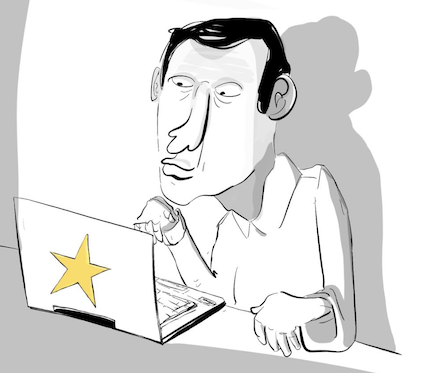
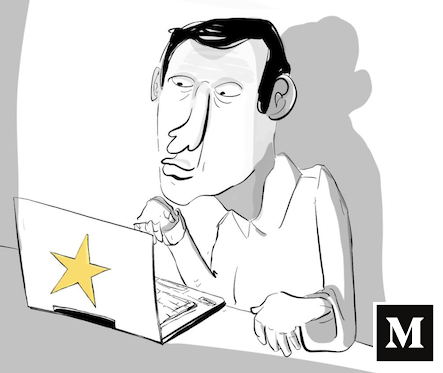
adding medium image to medium linked articles
Updated more links to open in new window not viewing one

Changed region(s): [[0.8217, 0.7962, 0.9977, 0.9732]]

diff --git a/index.html b/index.html
@@ -44,7 +44,7 @@
                  <img src="medium/git-commit-comments-and-what-they-reveal-about-you.png" alt="git commits" 
                    style='padding:1px; border:1px solid #021a40; width: 100%; height: 200px'>
                 <div class="card-body">
-                  <p class="card-text">On Medium: Your Git Commit Comments, and What They Reveal About You</p>
+                  <p class="card-text">Your Git Commit Comments, and What They Reveal About You</p>
 
                 </div>
               </a>
@@ -303,135 +303,137 @@
          <h5>All Posts:</h5>
             <ol class="list-unstyled">
 
-        <li><p><a href='concepts-in-pair-trading/index.html'>Exploring Some Pair-Trading Concepts with Python</a> <i>Published Jul 19, 2018</i></p></li> 
+        <li><p><a href='https://medium.com/@amunategui/git-commit-comments-and-what-they-reveal-about-you-64f7609b3750' target='_blank'>Your Git Commit Comments, and What They Reveal About You</a> <i>Published Jul 21, 2018</i></p></li> 
 
-        <li><p><a href='favorite-free-classes/index.html'>My Six Favorite Free Data Science Classes and the Giants Behind Them</a> <i>Published Jul 8, 2018</i></p></li> 
+        <li><p><a href='concepts-in-pair-trading/index.html' target='_blank'>Exploring Some Pair-Trading Concepts with Python</a> <i>Published Jul 19, 2018</i></p></li> 
 
-            <li><p><a href='aws-beanstalk/index.html'>Hosting a Flask Application on AWS Beanstalk</a> <i>Published Jun 26, 2018</i></p></li> 
+        <li><p><a href='favorite-free-classes/index.html' target='_blank'>My Six Favorite Free Data Science Classes and the Giants Behind Them</a> <i>Published Jul 8, 2018</i></p></li> 
 
-            <li><p><a href='tensorflow-won/index.html'>TensorFlow Won the Attention Battle, Who’s Next?</a> <i>Published Jun 23, 2018</i></p></li> 
+            <li><p><a href='aws-beanstalk/index.html' target='_blank'>Hosting a Flask Application on AWS Beanstalk</a> <i>Published Jun 26, 2018</i></p></li> 
 
-             <li><p><a href='fast-gpu-gcloud/index.html'>GPUs on Google Cloud - the Fast Way & the Slow Way</a> <i>Published Jun 16, 2018</i></p></li> 
+            <li><p><a href='tensorflow-won/index.html' target='_blank'>TensorFlow Won the Attention Battle, Who’s Next?</a> <i>Published Jun 23, 2018</i></p></li> 
 
-             <li><p><a href='executive-time-management/index.html'>Executive Time Management — Don’t Suffocate the Creative Process</a> <i>Published Jun 13, 2018</i></p></li>  
+             <li><p><a href='fast-gpu-gcloud/index.html' target='_blank'>GPUs on Google Cloud - the Fast Way & the Slow Way</a> <i>Published Jun 16, 2018</i></p></li> 
 
-             <li><p><a href='pairing-rl-and-ml/index.html'>Pairing Reinforcement Learning and Machine Learning, an Enhanced Emergency Response Scenario</a> <i>Published Jun 4, 2018</i></p></li>  
+             <li><p><a href='executive-time-management/index.html' target='_blank'>Executive Time Management — Don’t Suffocate the Creative Process</a> <i>Published Jun 13, 2018</i></p></li>  
 
-            <li><p><a href='find-your-next-language/index.html'>Find Your Next Programming Language By Measuring “The Knowledge Gap” on StackOverflow.com</a> <i>Published May 24, 2018</i></p></li>  
+             <li><p><a href='pairing-rl-and-ml/index.html' target='_blank'>Pairing Reinforcement Learning and Machine Learning, an Enhanced Emergency Response Scenario</a> <i>Published Jun 4, 2018</i></p></li>  
 
-            <li><p><a href='number-one-piece-of-advice/index.html'>My #1 Piece of Advice for Aspiring Data Scientists</a> <i>Published May 21, 2018</i></p></li>  
+            <li><p><a href='find-your-next-language/index.html' target='_blank'>Find Your Next Programming Language By Measuring “The Knowledge Gap” on StackOverflow.com</a> <i>Published May 24, 2018</i></p></li>  
 
-            <li><p><a href='Extracting-Chatbot-Scenarios-From-Customer-Service-Scripts/index.html'>Chatbot Conversations From Customer Service Transcripts</a> <i>Published Apr 29, 2018</i></p></li>
+            <li><p><a href='number-one-piece-of-advice/index.html' target='_blank'>My #1 Piece of Advice for Aspiring Data Scientists</a> <i>Published May 21, 2018</i></p></li>  
 
-            <li><p><a href='simple-flask-on-azure/index.html'>Serverless Hosting On Microsoft Azure - A Simple Flask Example</a> <i>Published Apr 8, 2018</i></p></li>
+            <li><p><a href='Extracting-Chatbot-Scenarios-From-Customer-Service-Scripts/index.html' target='_blank'>Chatbot Conversations From Customer Service Transcripts</a> <i>Published Apr 29, 2018</i></p></li>
 
-            <li><p><a href='google-video-transfer-learning/index.html'>Google Video Intelligence, TensorFlow And Inception V3 - Recognizing Not-So-Famous-People</a> <i>Published Mar 30, 2018</i></p></li>
+            <li><p><a href='simple-flask-on-azure/index.html' target='_blank'>Serverless Hosting On Microsoft Azure - A Simple Flask Example</a> <i>Published Apr 8, 2018</i></p></li>
+
+            <li><p><a href='google-video-transfer-learning/index.html' target='_blank'>Google Video Intelligence, TensorFlow And Inception V3 - Recognizing Not-So-Famous-People</a> <i>Published Mar 30, 2018</i></p></li>
    
-            <li><p><a href='rapid-prototyping-app-engine-yelp/index.html'>Rapid Prototyping on Google App Engine - Build a Trip Planner with Google Maps and Yelp</a> <i>Published Jan 20, 2018</i></p></li>
+            <li><p><a href='rapid-prototyping-app-engine-yelp/index.html' target='_blank'>Rapid Prototyping on Google App Engine - Build a Trip Planner with Google Maps and Yelp</a> <i>Published Jan 20, 2018</i></p></li>
             
-            <li><p><a href='yelp-v3-cross-country-trip/index.html'>Yelp v3 and a Romantic Trip Across the USA, One Florist at a Time</a> <i>Published Jan 6, 2018</i></p></li>
+            <li><p><a href='yelp-v3-cross-country-trip/index.html' target='_blank'>Yelp v3 and a Romantic Trip Across the USA, One Florist at a Time</a> <i>Published Jan 6, 2018</i></p></li>
             
-            <li><p><a href='free-website-on-github/index.html'>Show it to the World! Build a Free Art Portfolio Website on GitHub.io in 20 Minutes!</a> <i>Published Jan 1, 2018</i></p></li>
+            <li><p><a href='free-website-on-github/index.html' target='_blank'>Show it to the World! Build a Free Art Portfolio Website on GitHub.io in 20 Minutes!</a> <i>Published Jan 1, 2018</i></p></li>
 
-            <li><p><a href='google-actor-recognition/index.html'>Google Video Intelligence and Vision APIs - Automatically Recognize Actors and Download their Biographies in Real Time</a> <i>Published Dec 16, 2017</i></p></li>
+            <li><p><a href='google-actor-recognition/index.html' target='_blank'>Google Video Intelligence and Vision APIs - Automatically Recognize Actors and Download their Biographies in Real Time</a> <i>Published Dec 16, 2017</i></p></li>
 
-            <li><p><a href='life-expectancy/index.html'>Life Coefficients - Modeling Life Expectancy and Prototyping it on the Web with Flask and PythonAnywhere</a> <i>Published Dec 2, 2017</i></p></li>
+            <li><p><a href='life-expectancy/index.html' target='_blank'>Life Coefficients - Modeling Life Expectancy and Prototyping it on the Web with Flask and PythonAnywhere</a> <i>Published Dec 2, 2017</i></p></li>
             
-            <li><p><a href='unconventional-convolutional-networks/index.html'>Convolutional Neural Networks And Unconventional Data - Predicting The Stock Market Using Images</a> <i>Published Nov 2, 2017</i></p></li>
+            <li><p><a href='unconventional-convolutional-networks/index.html' target='_blank'>Convolutional Neural Networks And Unconventional Data - Predicting The Stock Market Using Images</a> <i>Published Nov 2, 2017</i></p></li>
             
-            <li><p><a href='fallacy-venn-diagram/index.html'>The Fallacy of the Data Scientist's Venn Diagram</a> <i>Published Nov 1, 2017</i></p></li>
+            <li><p><a href='fallacy-venn-diagram/index.html' target='_blank'>The Fallacy of the Data Scientist's Venn Diagram</a> <i>Published Nov 1, 2017</i></p></li>
             
-            <li><p><a href='reinforcement-learning/index.html'>Reinforcement Learning - A Simple Python Example and a Step Closer to AI with Assisted Q-Learning</a> <i>Published Sep 30, 2017</i></p></li>
+            <li><p><a href='reinforcement-learning/index.html' target='_blank'>Reinforcement Learning - A Simple Python Example and a Step Closer to AI with Assisted Q-Learning</a> <i>Published Sep 30, 2017</i></p></li>
 
-            <li><p><a href='simple-heuristics/index.html'>Simple Heuristics - Graphviz and Decision Trees to Quickly Find Patterns in your Data</a> <i>Published Sep 13, 2017</i></p></li>
+            <li><p><a href='simple-heuristics/index.html' target='_blank'>Simple Heuristics - Graphviz and Decision Trees to Quickly Find Patterns in your Data</a> <i>Published Sep 13, 2017</i></p></li>
 
-            <li><p><a href='office-automation-part3/index.html'>Office Automation Part 3 - Classifying Enron Emails with Google's Tensorflow Deep Neural Network Classifier</a> <i>Published Jul 2, 2017</i></p></li>
+            <li><p><a href='office-automation-part3/index.html' target='_blank'>Office Automation Part 3 - Classifying Enron Emails with Google's Tensorflow Deep Neural Network Classifier</a> <i>Published Jul 2, 2017</i></p></li>
 
-            <li><p><a href='office-automation-part2/index.html'>Office Automation Part 2 - Using Pre-Trained Word-Embedded Vectors to Categorize the Enron Email Dataset</a> <i>Published Jun 18, 2017</i></p></li>
+            <li><p><a href='office-automation-part2/index.html' target='_blank'>Office Automation Part 2 - Using Pre-Trained Word-Embedded Vectors to Categorize the Enron Email Dataset</a> <i>Published Jun 18, 2017</i></p></li>
 
-            <li><p><a href='office-automation/index.html'>Office Automation Part 1 - Sorting Departmental Emails with Tensorflow and Word-Embedded Vectors</a> <i>Published Jun 14, 2017</i></p></li>
+            <li><p><a href='office-automation/index.html' target='_blank'>Office Automation Part 1 - Sorting Departmental Emails with Tensorflow and Word-Embedded Vectors</a> <i>Published Jun 14, 2017</i></p></li>
             
-            <li><p><a href='market-profile/index.html'>Easy Market Profile in Python: Grasp Price Action Quickly</a> <i>Published Apr 21, 2017</i></p></li>
+            <li><p><a href='market-profile/index.html' target='_blank'>Easy Market Profile in Python: Grasp Price Action Quickly</a> <i>Published Apr 21, 2017</i></p></li>
 
-            <li><p><a href='what-if/index.html'>What-if Roadmap - Assessing Live Opportunities and their Paths to Success or Failure</a> <i>Published Mar 5, 2017</i></p></li>
+            <li><p><a href='what-if/index.html' target='_blank'>What-if Roadmap - Assessing Live Opportunities and their Paths to Success or Failure</a> <i>Published Mar 5, 2017</i></p></li>
 
-            <li><p><a href='C50-rules/index.html'>Where Are Your Customers Coming From And Where Are They Going - Reporting On Complex Customer Behavior In Plain English With C5.0</a> <i>Published Dec 26, 2016</i></p></li>
+            <li><p><a href='C50-rules/index.html' target='_blank'>Where Are Your Customers Coming From And Where Are They Going - Reporting On Complex Customer Behavior In Plain English With C5.0</a> <i>Published Dec 26, 2016</i></p></li>
 
-            <li><p><a href='databricks-spark-bayes/index.html'>Databricks, SparkR and Distributed Naive Bayes Modeling</a> <i>Published Nov 26, 2016</i></p></li>
+            <li><p><a href='databricks-spark-bayes/index.html' target='_blank'>Databricks, SparkR and Distributed Naive Bayes Modeling</a> <i>Published Nov 26, 2016</i></p></li>
 
-            <li><p><a href='r-and-azureml/index.html'>R and Azure ML - Your One-Stop Modeling Pipeline in The Cloud!</a> <i>Published Nov 20, 2016</i></p></li>
+            <li><p><a href='r-and-azureml/index.html' target='_blank'>R and Azure ML - Your One-Stop Modeling Pipeline in The Cloud!</a> <i>Published Nov 20, 2016</i></p></li>
 
-            <li><p><a href='pseudo-coefficients/index.html'>Get Your "all-else-held-equal" Odds-Ratio Story for Non-Linear Models!</a> <i>Published Nov 15, 2016</i></p></li>
+            <li><p><a href='pseudo-coefficients/index.html' target='_blank'>Get Your "all-else-held-equal" Odds-Ratio Story for Non-Linear Models!</a> <i>Published Nov 15, 2016</i></p></li>
             
-            <li><p><a href='markov-chains/index.html'>Predict Stock-Market Behavior using Markov Chains and R</a> <i>Published Aug 31, 2016</i></p></li>
+            <li><p><a href='markov-chains/index.html' target='_blank'>Predict Stock-Market Behavior using Markov Chains and R</a> <i>Published Aug 31, 2016</i></p></li>
             
             <li><p><a href="all-hacker-news/index.html">Big Data Surveillance: Use EC2, PostgreSQL and Python to Download all Hacker News Data!</a> <i>Published Jul 20, 2016</i></p></li>
             
-            <li><p><a href='peter_norvig_magic_spell_checker/index.html'>The Peter Norvig Magic Spell Checker in R</a> <i>Published Jun 16, 2016</i></p></li>
+            <li><p><a href='peter_norvig_magic_spell_checker/index.html' target='_blank'>The Peter Norvig Magic Spell Checker in R</a> <i>Published Jun 16, 2016</i></p></li>
             
-            <li><p><a href='actionable-instights/index.html'>Actionable Insights: Getting Variable Importance at the Prediction Level in R</a> <i>Published May 2, 2016</i></p></li>
+            <li><p><a href='actionable-instights/index.html' target='_blank'>Actionable Insights: Getting Variable Importance at the Prediction Level in R</a> <i>Published May 2, 2016</i></p></li>
  
-           <li><p><a href='survival-ensembles/index.html'>Survival Ensembles: Survival Plus Classification for Improved Time-Based Predictions in R</a> <i>Published March 19, 2016</i></p></li>
+           <li><p><a href='survival-ensembles/index.html' target='_blank'>Survival Ensembles: Survival Plus Classification for Improved Time-Based Predictions in R</a> <i>Published March 19, 2016</i></p></li>
 
-           <li><p><a href='anomaly-detection-h2o/index.html'>Anomaly Detection: Increasing Classification Accuracy with H2O's Autoencoder and R</a> <i>Published Jan 11, 2016</i></p></li>
+           <li><p><a href='anomaly-detection-h2o/index.html' target='_blank'>Anomaly Detection: Increasing Classification Accuracy with H2O's Autoencoder and R</a> <i>Published Jan 11, 2016</i></p></li>
 
-           <li><p><a href='h2o-on-aws/index.html'>H2O & RStudio Server on Amazon Web Services (AWS), the Easy Way!</a> <i>Published Dec 27, 2015</i></p></li>
+           <li><p><a href='h2o-on-aws/index.html' target='_blank'>H2O & RStudio Server on Amazon Web Services (AWS), the Easy Way!</a> <i>Published Dec 27, 2015</i></p></li>
 
-           <li><p><a href='accessing-the-gutenberg-library/index.html'>Analyze Classic Works of Literature from Around the World with Project Gutenberg and R</a> <i>Published Dec 12, 2015</i></p></li>
+           <li><p><a href='accessing-the-gutenberg-library/index.html' target='_blank'>Analyze Classic Works of Literature from Around the World with Project Gutenberg and R</a> <i>Published Dec 12, 2015</i></p></li>
 
-           <li><p><a href='speak-like-a-doctor/index.html'>Speak Like a Doctor - Use Natural Language Processing to Predict Medical Words in R</a> <i>Published Nov 22, 2015</i></p></li>
+           <li><p><a href='speak-like-a-doctor/index.html' target='_blank'>Speak Like a Doctor - Use Natural Language Processing to Predict Medical Words in R</a> <i>Published Nov 22, 2015</i></p></li>
 
-            <li><p><a href='sparkr/index.html'>Supercharge R with Spark: Getting Apache's SparkR Up and Running on Amazon Web Services (AWS)</a> <i>Published Sep 30, 2015</i></p></li>
-
-
-            <li><p><a href='excel-data-dumps/index.html'>R and Excel: Making Your Data Dumps Pretty with XLConnect</a> <i>Published Jul 7, 2015</i></p></li>
+            <li><p><a href='sparkr/index.html' target='_blank'>Supercharge R with Spark: Getting Apache's SparkR Up and Running on Amazon Web Services (AWS)</a> <i>Published Sep 30, 2015</i></p></li>
 
 
-            <li><p><a href='idea-to-pitch/index.html'>Going from an Idea to a Pitch: Hosting your Python Application using Flask and Amazon Web Services (AWS)</a> <i>Published Jun 12, 2015</i></p></li>
-
-            <li><p><a href='pubmed-query/index.html'>Getting PubMed Medical Text with R and Package {RISmed}</a> <i>Published Apr 17, 2015</i></p></li>
+            <li><p><a href='excel-data-dumps/index.html' target='_blank'>R and Excel: Making Your Data Dumps Pretty with XLConnect</a> <i>Published Jul 7, 2015</i></p></li>
 
 
-            <li><p><a href='variable-importance-shuffler/index.html'>Find Variable Importance for any Model - Prediction Shuffling with R</a> <i>Published Mar 27, 2015</i></p></li>
+            <li><p><a href='idea-to-pitch/index.html' target='_blank'>Going from an Idea to a Pitch: Hosting your Python Application using Flask and Amazon Web Services (AWS)</a> <i>Published Jun 12, 2015</i></p></li>
 
-            <li><p><a href='bagging-in-R/index.html'>Bagging / Bootstrap Aggregation with R</a> <i>Published Mar 7, 2015</i></p></li>
-
-            <li><p><a href='feature-hashing/index.html'>Feature Hashing (a.k.a. The Hashing Trick) With R</a> <i>Published Feb 21, 2015</i></p></li>
-
-            <li><p><a href='yelp-cross-country-trip/index.html'>Yelp, httr and a Romantic Trip Across the United States, One Florist at a Time</a> <i>Published Jan 14, 2015</i></p></li>
-
-            <li><p><a href='supervised-summarizer/index.html'>Quantifying the Spread: Measuring Strength and Direction of Predictors with the Summary Function</a> <i>Published Dec 27, 2014</i></p></li>
-
-            <li><p><a href='google-trends-walkthrough/index.html'>Downloading Data from Google Trends And Analyzing It With R</a> <i>Published Dec 17, 2014</i></p></li>
-
-            <li><p><a href='stringdist/index.html'>Using String Distance {stringdist} To Handle Large Text Factors, Cluster Them Into Supersets</a> <i>Published Nov 30, 2014</i></p></li>
-
-            <li><p><a href='smote/index.html'>SMOTE - Supersampling Rare Events in R</a> <i>Published Nov 13, 2014</i></p></li>
-
-            <li><p><a href='wallstreet/index.html'>Let's Get Rich! See how {quantmod} And R Can Enrich Your Knowledge Of The Financial Markets!</a> <i>Published Nov 10, 2014</i></p></li>
+            <li><p><a href='pubmed-query/index.html' target='_blank'>Getting PubMed Medical Text with R and Package {RISmed}</a> <i>Published Apr 17, 2015</i></p></li>
 
 
-            <li><p><a href='dealing-with-large-files/index.html'>How To Work With Files Too Large For A Computer’s RAM? Using R To Process Large Data In Chunks</a> <i>Published Nov 4, 2014</i></p></li>
+            <li><p><a href='variable-importance-shuffler/index.html' target='_blank'>Find Variable Importance for any Model - Prediction Shuffling with R</a> <i>Published Mar 27, 2015</i></p></li>
 
-            <li><p><a href='multinomial-neuralnetworks-walkthrough/index.html'>Predicting Multiple Discrete Values with Multinomials, Neural Networks and the {nnet} Package</a> <i>Published Nov 1, 2014</i></p></li>
+            <li><p><a href='bagging-in-R/index.html' target='_blank'>Bagging / Bootstrap Aggregation with R</a> <i>Published Mar 7, 2015</i></p></li>
 
-            <li><p><a href='binary-outcome-modeling/index.html'>Modeling 101 - Predicting Binary Outcomes with R, gbm, glmnet, and {caret}</a> <i>Published Oct 22, 2014</i></p></li>
+            <li><p><a href='feature-hashing/index.html' target='_blank'>Feature Hashing (a.k.a. The Hashing Trick) With R</a> <i>Published Feb 21, 2015</i></p></li>
 
-            <li><p><a href='high-demensions-pca/index.html'>Reducing High Dimensional Data with Principle Component Analysis (PCA) and prcomp</a> <i>Published Oct 13, 2014</i></p></li>
+            <li><p><a href='yelp-cross-country-trip/index.html' target='_blank'>Yelp, httr and a Romantic Trip Across the United States, One Florist at a Time</a> <i>Published Jan 14, 2015</i></p></li>
 
-            <li><p><a href='sparse-matrix-glmnet/index.html'>The Sparse Matrix and {glmnet}</a> <i>Published Oct 8, 2014</i></p></li>
+            <li><p><a href='supervised-summarizer/index.html' target='_blank'>Quantifying the Spread: Measuring Strength and Direction of Predictors with the Summary Function</a> <i>Published Dec 27, 2014</i></p></li>
 
-            <li><p><a href='dummyVar-Walkthrough/index.html'>Brief Walkthrough Of The dummyVars Function From {caret}</a> <i>Published Oct 2, 2014</i></p></li>
+            <li><p><a href='google-trends-walkthrough/index.html' target='_blank'>Downloading Data from Google Trends And Analyzing It With R</a> <i>Published Dec 17, 2014</i></p></li>
 
-            <li><p><a href='fscaret-Walkthrough/index.html'>Ensemble Feature Selection On Steroids: {fscaret} Package</a> <i>Published Oct 1, 2014</i></p></li>
+            <li><p><a href='stringdist/index.html' target='_blank'>Using String Distance {stringdist} To Handle Large Text Factors, Cluster Them Into Supersets</a> <i>Published Nov 30, 2014</i></p></li>
+
+            <li><p><a href='smote/index.html' target='_blank'>SMOTE - Supersampling Rare Events in R</a> <i>Published Nov 13, 2014</i></p></li>
+
+            <li><p><a href='wallstreet/index.html' target='_blank'>Let's Get Rich! See how {quantmod} And R Can Enrich Your Knowledge Of The Financial Markets!</a> <i>Published Nov 10, 2014</i></p></li>
 
 
-            <li><p><a href='ggmap-example/index.html'>Mapping The United States Census With {ggmap}</a> <i>Published Sep 29, 2014</i></p></li>
+            <li><p><a href='dealing-with-large-files/index.html' target='_blank'>How To Work With Files Too Large For A Computer’s RAM? Using R To Process Large Data In Chunks</a> <i>Published Nov 4, 2014</i></p></li>
 
-            <li><p><a href='Exploring-Your-Data-Set/index.html'>Using Correlations To Understand Your Data</a> <i>Published Sep 27, 2014</i></p></li>
+            <li><p><a href='multinomial-neuralnetworks-walkthrough/index.html' target='_blank'>Predicting Multiple Discrete Values with Multinomials, Neural Networks and the {nnet} Package</a> <i>Published Nov 1, 2014</i></p></li>
+
+            <li><p><a href='binary-outcome-modeling/index.html' target='_blank'>Modeling 101 - Predicting Binary Outcomes with R, gbm, glmnet, and {caret}</a> <i>Published Oct 22, 2014</i></p></li>
+
+            <li><p><a href='high-demensions-pca/index.html' target='_blank'>Reducing High Dimensional Data with Principle Component Analysis (PCA) and prcomp</a> <i>Published Oct 13, 2014</i></p></li>
+
+            <li><p><a href='sparse-matrix-glmnet/index.html' target='_blank'>The Sparse Matrix and {glmnet}</a> <i>Published Oct 8, 2014</i></p></li>
+
+            <li><p><a href='dummyVar-Walkthrough/index.html' target='_blank'>Brief Walkthrough Of The dummyVars Function From {caret}</a> <i>Published Oct 2, 2014</i></p></li>
+
+            <li><p><a href='fscaret-Walkthrough/index.html' target='_blank'>Ensemble Feature Selection On Steroids: {fscaret} Package</a> <i>Published Oct 1, 2014</i></p></li>
 
 
-            <li><p><a href='EC2-RStudioServer/index.html'>Brief Guide On Running RStudio Server On Amazon Web Services</a> <i>Published May 15, 2014</i></p></li>
+            <li><p><a href='ggmap-example/index.html' target='_blank'>Mapping The United States Census With {ggmap}</a> <i>Published Sep 29, 2014</i></p></li>
+
+            <li><p><a href='Exploring-Your-Data-Set/index.html' target='_blank'>Using Correlations To Understand Your Data</a> <i>Published Sep 27, 2014</i></p></li>
+
+
+            <li><p><a href='EC2-RStudioServer/index.html' target='_blank'>Brief Guide On Running RStudio Server On Amazon Web Services</a> <i>Published May 15, 2014</i></p></li>
 
 
             </ol>
